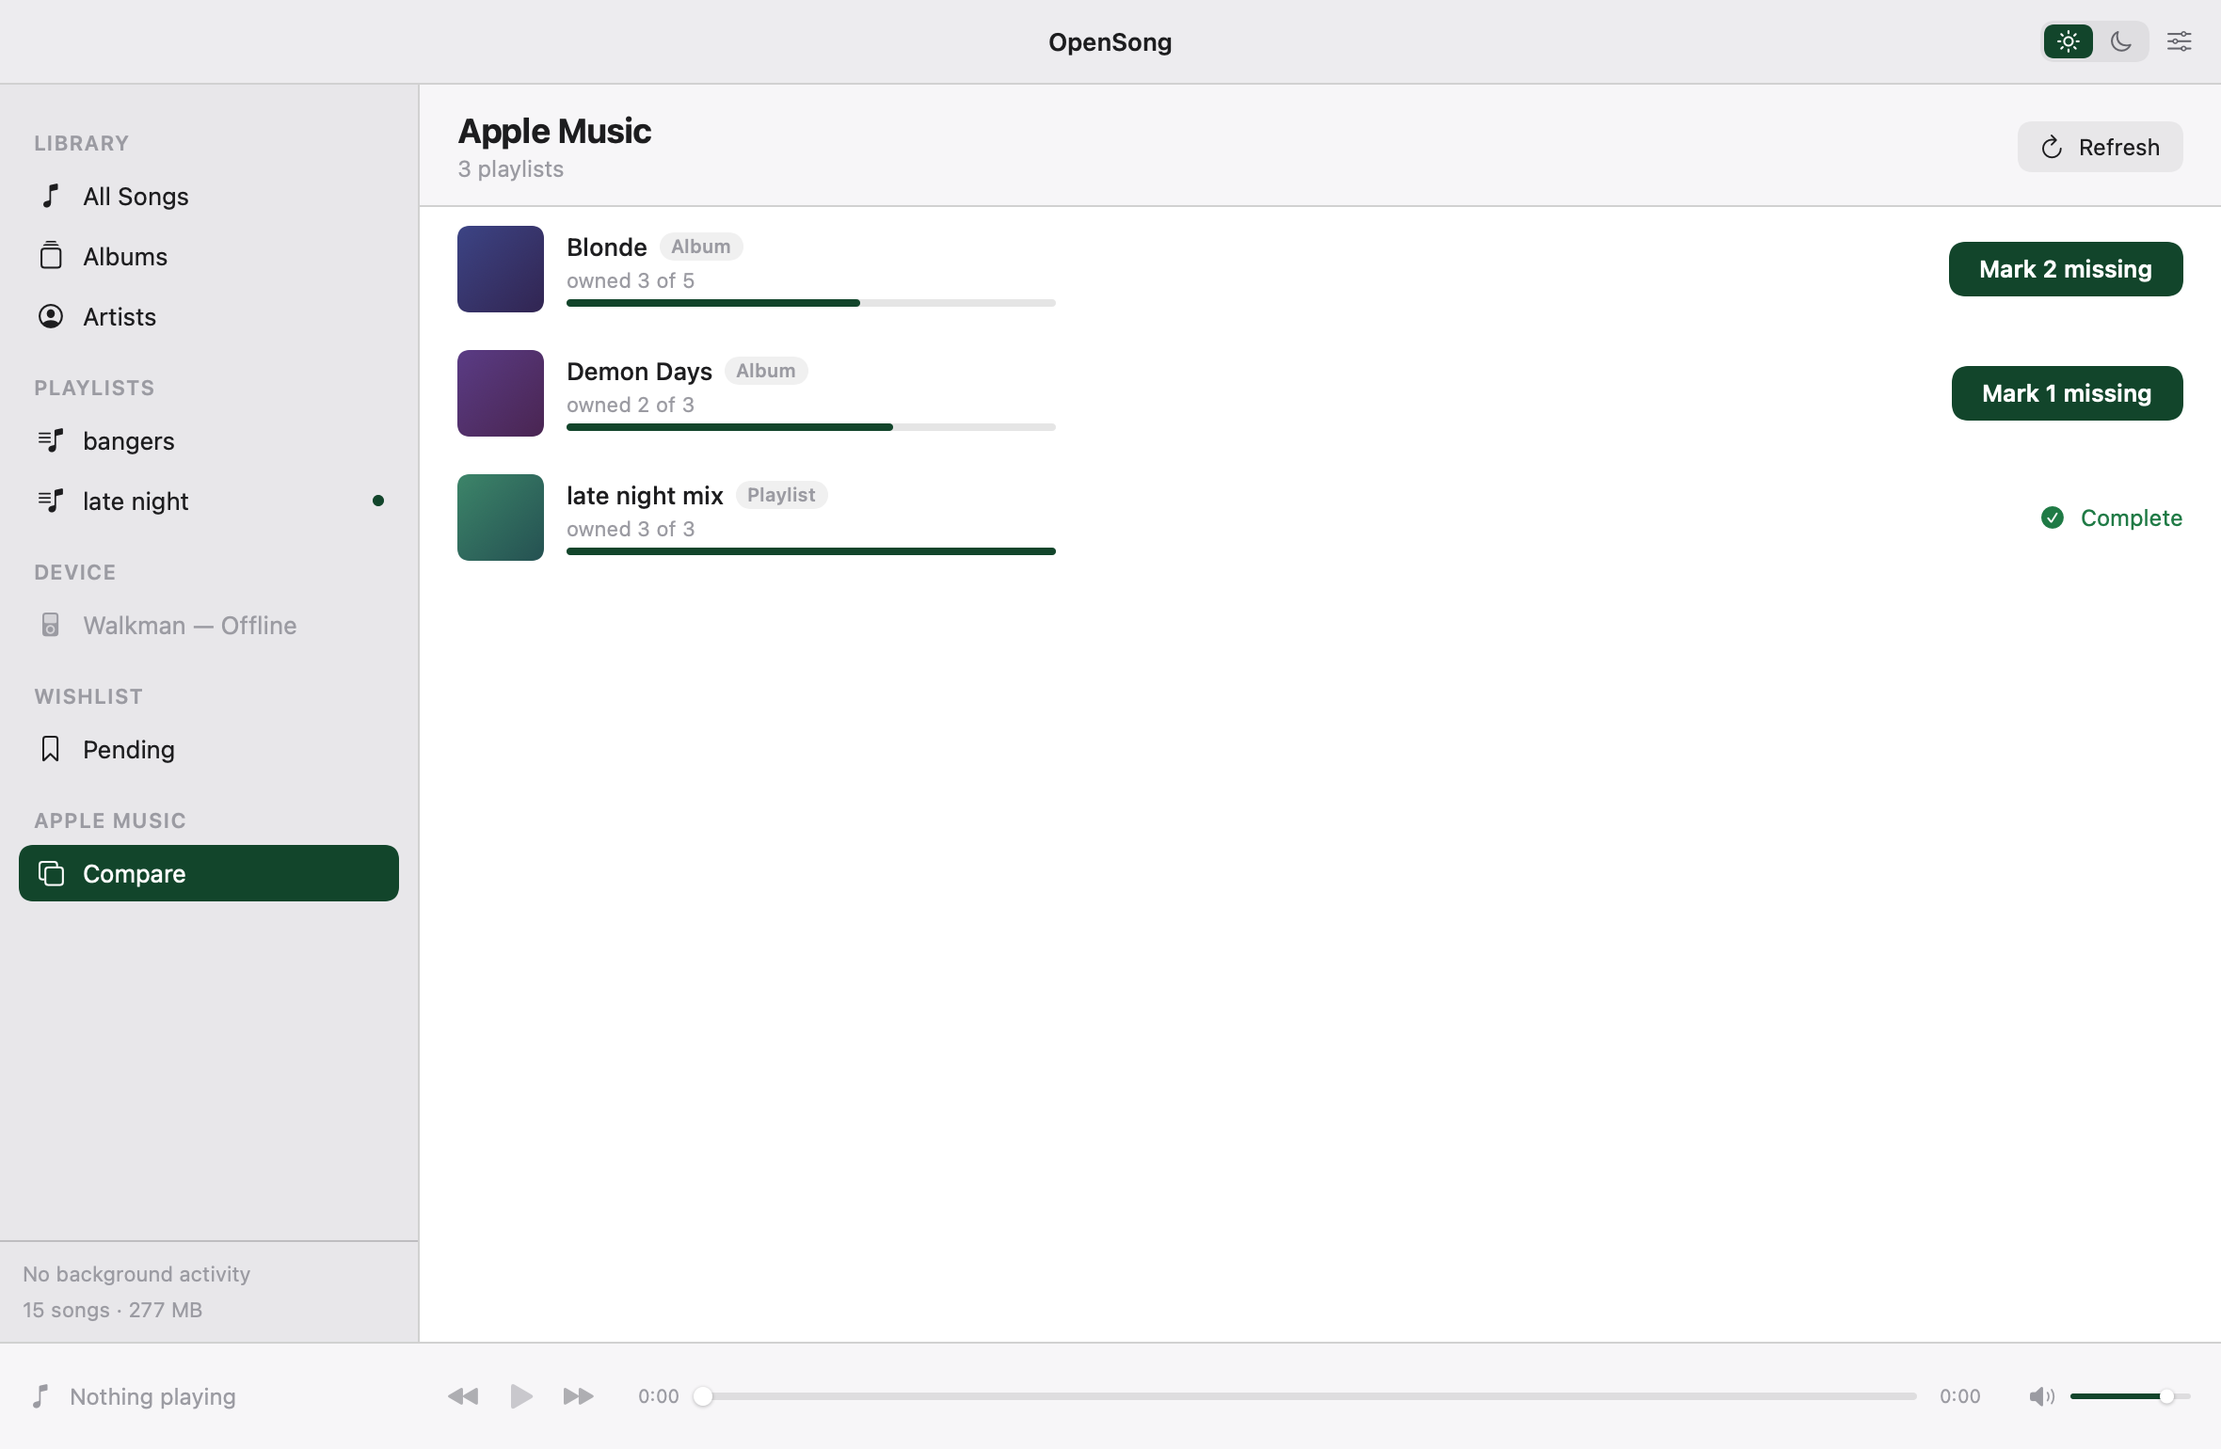
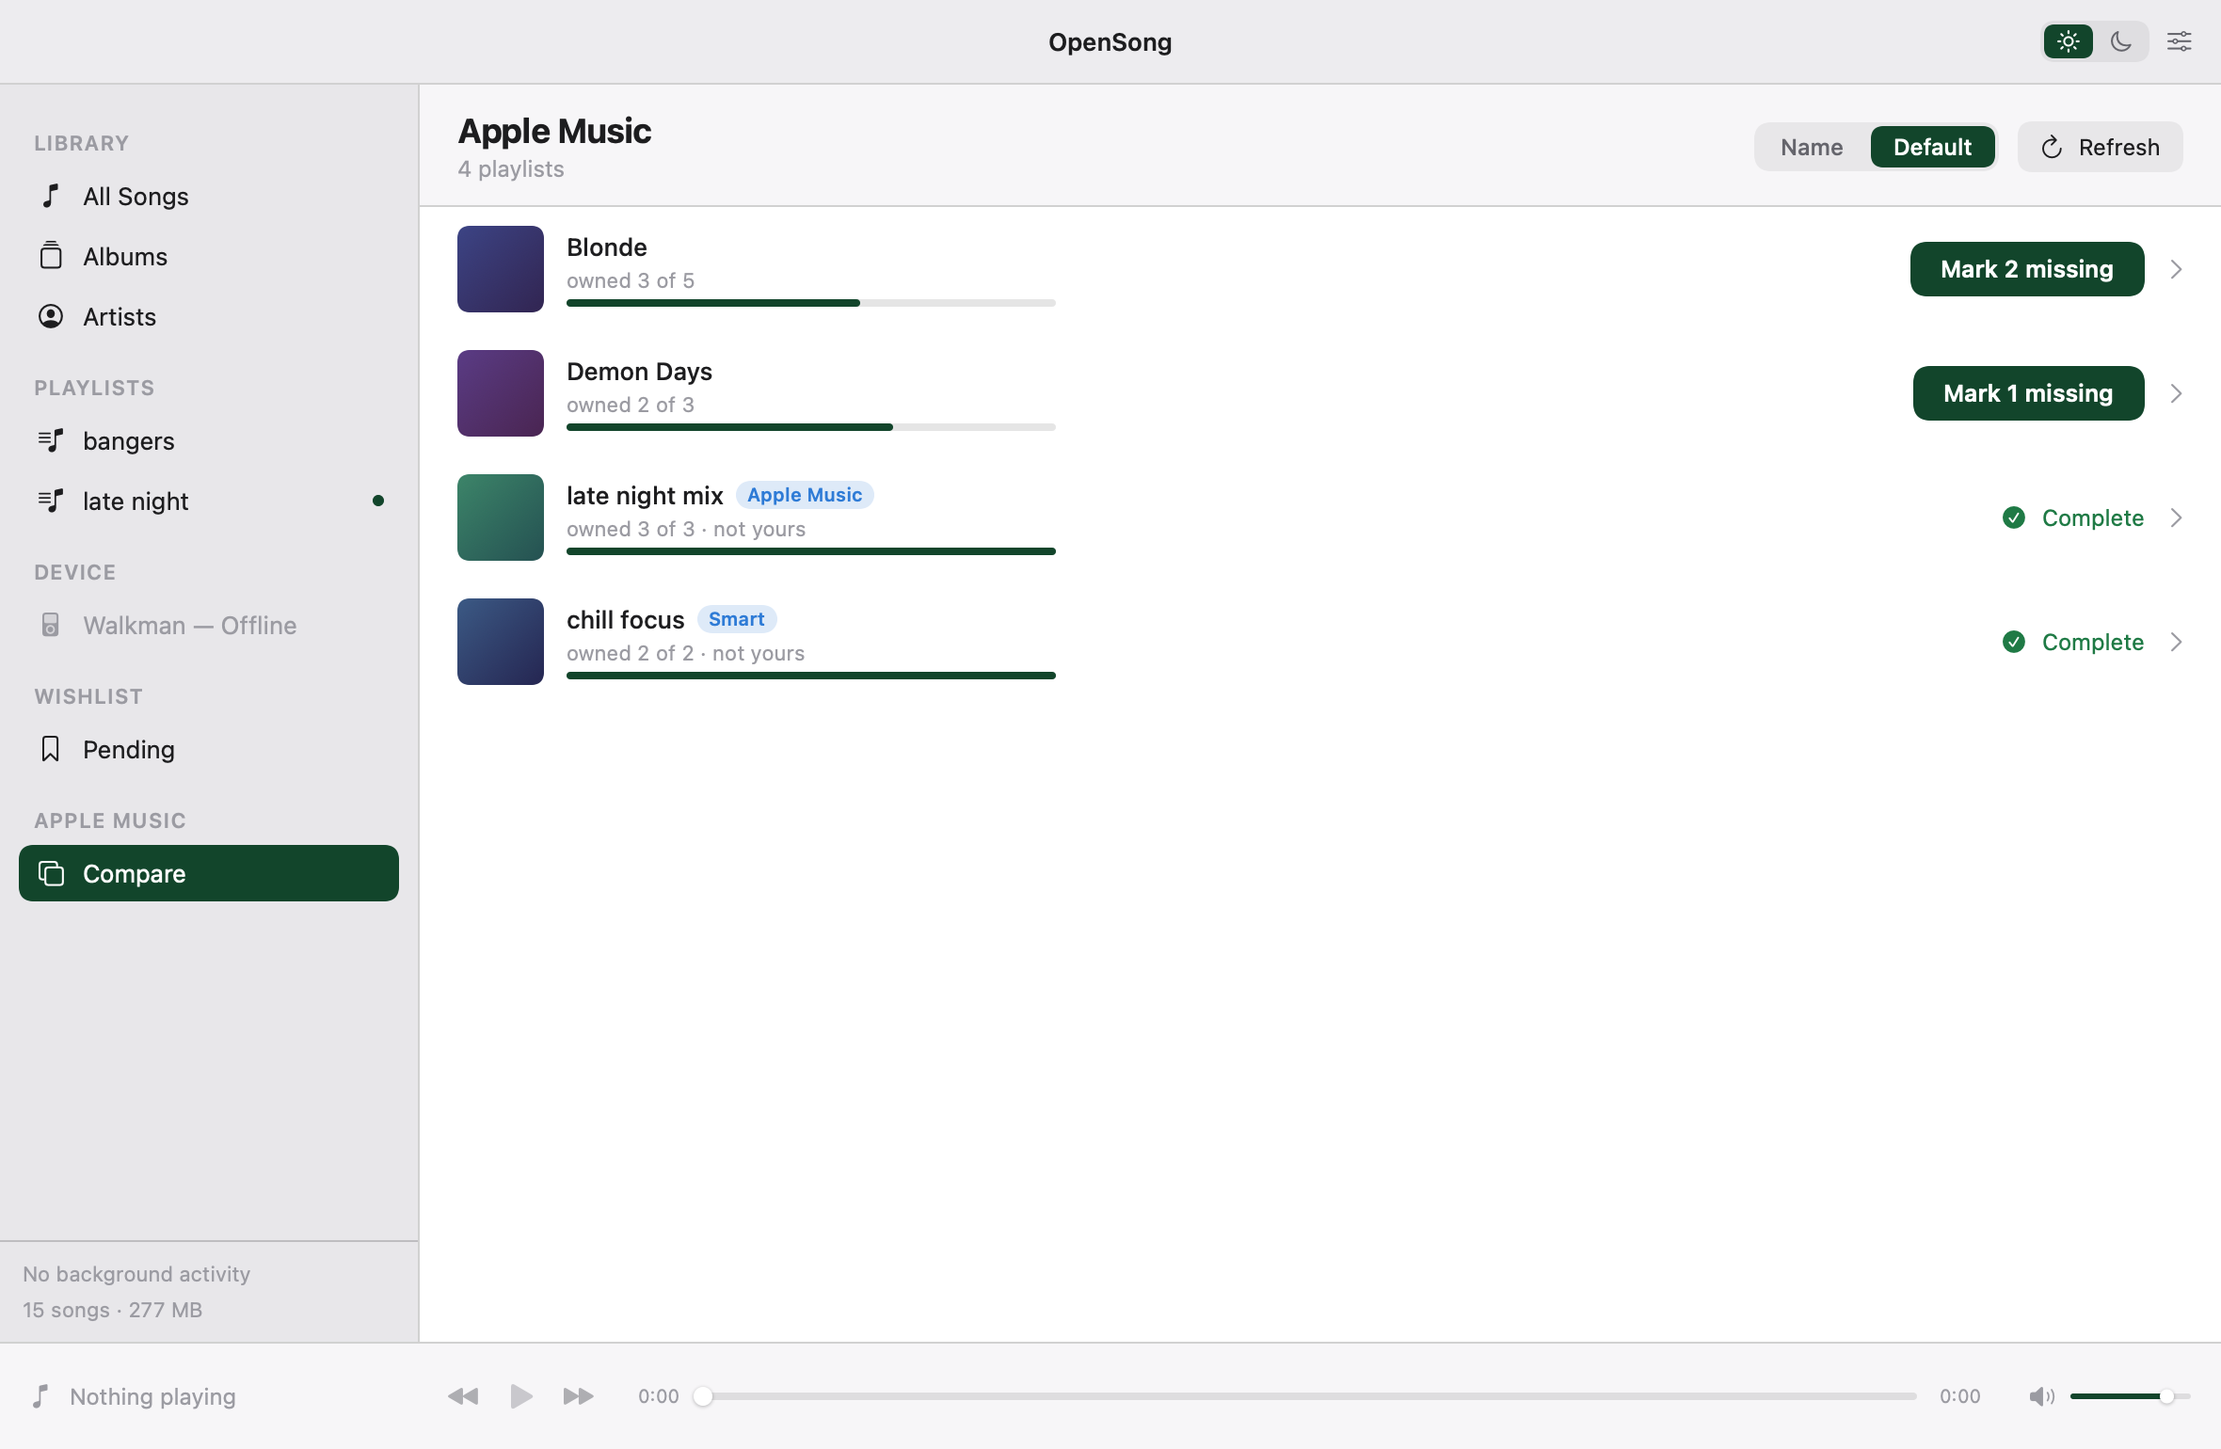
feat(applemusic): sort (name/default), origin tags, clickable playlist detail w/ per-track add (v0.2.3)
- Sort control (Name / Default); capture smart + class from Music for a 'not yours' tag
  (Apple Music / Smart / Genius)
- Click a playlist -> AppleMusicDetailView: per-track Add (owned/pending/missing states) +
  Mark-all-missing; all add to Pending grouped under the playlist name

diff --git a/Sources/OpenSong/AppleMusicDetailView.swift b/Sources/OpenSong/AppleMusicDetailView.swift
@@ -1,0 +1,80 @@
+import SwiftUI
+import OpenSongCore
+
+struct AppleMusicDetailView: View {
+    @Environment(AppStore.self) private var store
+    @Environment(\.theme) private var theme
+
+    private var col: AppleMusicCollection? { store.amDetail }
+
+    var body: some View {
+        VStack(spacing: 0) {
+            if let col {
+                header(col)
+                Divider().overlay(theme.sep)
+                ScrollOrStack(alignment: .leading) {
+                    ForEach(Array(col.tracks.enumerated()), id: \.offset) { _, track in
+                        trackRow(track, group: col.name)
+                        Divider().overlay(theme.sep)
+                    }
+                }
+            } else {
+                Text("No playlist selected").foregroundStyle(theme.text3)
+            }
+        }
+    }
+
+    private func header(_ col: AppleMusicCollection) -> some View {
+        let own = store.ownership(col)
+        return HStack(spacing: 14) {
+            Button { store.activeView = .appleMusic } label: {
+                Image(systemName: "chevron.left").font(.system(size: 13))
+            }.buttonStyle(.plain).foregroundStyle(theme.text2)
+            AppleMusicArt(name: col.name, size: 60)
+            VStack(alignment: .leading, spacing: 3) {
+                HStack(spacing: 6) {
+                    Text(col.name).font(.system(size: 18, weight: .bold)).foregroundStyle(theme.text).lineLimit(1)
+                    if let tag = col.originTag {
+                        Text(tag).font(.system(size: 10, weight: .semibold))
+                            .padding(.horizontal, 6).padding(.vertical, 1)
+                            .background(Color(hex: 0x2e7bd6).opacity(0.16), in: Capsule())
+                            .foregroundStyle(Color(hex: 0x2e7bd6))
+                    }
+                }
+                Text("\(col.tracks.count) tracks · owned \(own.owned), \(own.missing.count) missing")
+                    .font(.system(size: 12)).foregroundStyle(theme.text3)
+            }
+            Spacer()
+            if !own.missing.isEmpty {
+                Button("Mark \(own.missing.count) missing") { store.markMissing(col) }.buttonStyle(AccentButton())
+            }
+        }
+        .padding(20).background(theme.header)
+    }
+
+    private func trackRow(_ track: AppleMusicTrack, group: String) -> some View {
+        let owned = store.isOwned(track)
+        let pending = store.isPending(track)
+        return HStack(spacing: 12) {
+            Circle()
+                .fill(owned ? theme.green : Color.clear)
+                .overlay(Circle().stroke(owned ? Color.clear : theme.text3, lineWidth: 1.2))
+                .frame(width: 9, height: 9)
+            VStack(alignment: .leading, spacing: 1) {
+                Text(track.name).font(.system(size: 13)).foregroundStyle(owned ? theme.text3 : theme.text).lineLimit(1)
+                Text(track.artist).font(.system(size: 11)).foregroundStyle(theme.text3).lineLimit(1)
+            }
+            Spacer()
+            if owned {
+                Label("In library", systemImage: "checkmark").font(.system(size: 11)).foregroundStyle(theme.green)
+            } else if pending {
+                Text("Pending").font(.system(size: 11, weight: .semibold))
+                    .padding(.horizontal, 8).padding(.vertical, 3)
+                    .background(theme.amber.opacity(0.15), in: Capsule()).foregroundStyle(theme.amber)
+            } else {
+                Button("Add") { store.addTrackToPending(track, group: group) }.buttonStyle(SoftButton())
+            }
+        }
+        .padding(.horizontal, 20).padding(.vertical, 7)
+    }
+}

diff --git a/Sources/OpenSong/AppleMusicView.swift b/Sources/OpenSong/AppleMusicView.swift
@@ -37,11 +37,18 @@ struct AppleMusicView: View {
     @Environment(\.theme) private var theme
 
     var body: some View {
-        VStack(spacing: 0) {
+        @Bindable var store = store
+        return VStack(spacing: 0) {
             ContentHeader(title: "Apple Music", subtitle: "\(store.appleMusic.count) playlists") {
-                Button { store.loadAppleMusic() } label: {
-                    Label(store.appleMusicLoading ? "Loading…" : "Refresh", systemImage: "arrow.clockwise")
-                }.buttonStyle(SoftButton()).disabled(store.appleMusicLoading)
+                HStack(spacing: 10) {
+                    if !store.appleMusic.isEmpty {
+                        SegmentedControl(options: AMSort.allCases.map { ($0.rawValue, $0) },
+                                         selection: $store.appleMusicSort)
+                    }
+                    Button { store.loadAppleMusic() } label: {
+                        Label(store.appleMusicLoading ? "Loading…" : "Refresh", systemImage: "arrow.clockwise")
+                    }.buttonStyle(SoftButton()).disabled(store.appleMusicLoading)
+                }
             }
             Divider().overlay(theme.sep)
             if store.appleMusicLoading {
@@ -50,7 +57,7 @@ struct AppleMusicView: View {
                 emptyState
             } else {
                 ScrollOrStack(alignment: .leading) {
-                    ForEach(store.appleMusic) { col in row(col) }
+                    ForEach(store.sortedAppleMusic) { col in row(col) }
                 }
             }
         }
@@ -92,11 +99,15 @@ struct AppleMusicView: View {
             VStack(alignment: .leading, spacing: 3) {
                 HStack(spacing: 6) {
                     Text(col.name).font(.system(size: 13, weight: .medium)).foregroundStyle(theme.text).lineLimit(1)
-                    Text(col.kind.rawValue.capitalized).font(.system(size: 10, weight: .semibold))
-                        .padding(.horizontal, 6).padding(.vertical, 1)
-                        .background(theme.chip, in: Capsule()).foregroundStyle(theme.text3)
+                    if let tag = col.originTag {
+                        Text(tag).font(.system(size: 10, weight: .semibold))
+                            .padding(.horizontal, 6).padding(.vertical, 1)
+                            .background(Color(hex: 0x2e7bd6).opacity(0.16), in: Capsule())
+                            .foregroundStyle(Color(hex: 0x2e7bd6))
+                    }
                 }
-                Text("owned \(own.owned) of \(own.total)").font(.system(size: 11)).foregroundStyle(theme.text3)
+                Text("owned \(own.owned) of \(own.total)\(col.isUserMade ? "" : " · not yours")")
+                    .font(.system(size: 11)).foregroundStyle(theme.text3)
                 ProgressBar(value: frac).frame(width: 260)
             }
             Spacer()
@@ -105,7 +116,10 @@ struct AppleMusicView: View {
             } else {
                 Button("Mark \(own.missing.count) missing") { store.markMissing(col) }.buttonStyle(AccentButton())
             }
+            Image(systemName: "chevron.right").font(.system(size: 12)).foregroundStyle(theme.text3)
         }
         .padding(.horizontal, 20).padding(.vertical, 10)
+        .contentShape(Rectangle())
+        .onTapGesture { store.openAMDetail(col) }
     }
 }

diff --git a/Sources/OpenSong/AppStore.swift b/Sources/OpenSong/AppStore.swift
@@ -53,6 +53,15 @@ final class AppStore {
     var appleMusic: [AppleMusicCollection] = []
     var appleMusicLoading = false
     var appleMusicError: String? = nil
+    var appleMusicSort: AMSort = .def
+    var amDetail: AppleMusicCollection? = nil
+
+    var sortedAppleMusic: [AppleMusicCollection] {
+        switch appleMusicSort {
+        case .name: return appleMusic.sorted { $0.name.localizedCaseInsensitiveCompare($1.name) == .orderedAscending }
+        case .def: return appleMusic   // Music's own order (roughly by recency / manual)
+        }
+    }
 
     struct SyncPreview {
         var willAdd: [SongRow]
@@ -556,6 +565,31 @@ final class AppStore {
         lastMessage = "Added \(missing.count) missing track(s)\(group.map { " from “\($0)”" } ?? "") to Pending."
     }
 
+    func openAMDetail(_ col: AppleMusicCollection) {
+        amDetail = col
+        activeView = .appleMusicDetail
+    }
+
+    /// Add a single Apple Music track to Pending (grouped under its playlist).
+    func addTrackToPending(_ track: AppleMusicTrack, group: String?) {
+        guard let store else { return }
+        var w = track.wishItem; w.playlistName = group
+        _ = try? store.addWish(w)
+        reload()
+        lastMessage = "Added “\(track.name)” to Pending."
+    }
+
+    /// Whether a given Apple Music track is already owned in the library.
+    func isOwned(_ track: AppleMusicTrack) -> Bool {
+        let lib = songs.map { AppleMusicCompare.LibraryTrack(title: $0.title, artist: $0.artist, album: $0.album, durationSec: $0.durationSec) }
+        return lib.contains { AppleMusicCompare.matches(track, $0) }
+    }
+
+    /// Whether a track is already in Pending.
+    func isPending(_ track: AppleMusicTrack) -> Bool {
+        wishItems.contains { $0.title == track.name && $0.artist == track.artist }
+    }
+
     /// After a grouped wish downloads, recreate the OpenSong playlist once all its tracks
     /// are present (and one doesn't already exist).
     private func maybeRecreatePlaylist(wishID: Int64) {
@@ -602,7 +636,10 @@ final class AppStore {
             AppleMusicCollection(name: "late night mix", kind: .playlist, tracks: [
                 tr("Ivy", "Frank Ocean", "Blonde", 249), tr("Aruarian Dance", "Nujabes", "Departure", 244),
                 tr("Peaceland", "Nujabes", "Modal Soul", 201),
-            ]),
+            ], cls: "subscription playlist"),
+            AppleMusicCollection(name: "chill focus", kind: .playlist, tracks: [
+                tr("Avril 14th", "Aphex Twin", "Drukqs", 125), tr("Ivy", "Frank Ocean", "Blonde", 249),
+            ], smart: true, cls: "smart playlist"),
         ]
     }
 

diff --git a/Sources/OpenSongCore/AppleMusic.swift b/Sources/OpenSongCore/AppleMusic.swift
@@ -33,9 +33,23 @@ public struct AppleMusicCollection: Sendable, Equatable, Identifiable {
     public var name: String
     public var kind: AppleMusicKind
     public var tracks: [AppleMusicTrack]
-    public init(name: String, kind: AppleMusicKind, tracks: [AppleMusicTrack]) {
-        self.name = name; self.kind = kind; self.tracks = tracks
+    public var smart: Bool
+    public var cls: String        // Music's class display string, e.g. "user playlist", "subscription playlist"
+    public init(name: String, kind: AppleMusicKind, tracks: [AppleMusicTrack],
+                smart: Bool = false, cls: String = "") {
+        self.name = name; self.kind = kind; self.tracks = tracks; self.smart = smart; self.cls = cls
     }
+
+    /// A short tag when the playlist wasn't hand-made by the user (smart, or added from the
+    /// Apple Music catalog / another user). nil for a normal user playlist.
+    public var originTag: String? {
+        let c = cls.lowercased()
+        if c.contains("subscription") || c.contains("radio") { return "Apple Music" }
+        if smart { return "Smart" }
+        if c.contains("genius") { return "Genius" }
+        return nil
+    }
+    public var isUserMade: Bool { originTag == nil }
 }
 
 /// Parses the JSON our JXA script emits from Music.app.
@@ -56,7 +70,9 @@ public enum AppleMusicParser {
                     location: (t["location"] as? String).flatMap { $0.isEmpty ? nil : $0 },
                     isCloud: (t["cloud"] as? Bool) ?? false)
             }
-            return AppleMusicCollection(name: name, kind: kind, tracks: tracks)
+            return AppleMusicCollection(name: name, kind: kind, tracks: tracks,
+                                        smart: (col["smart"] as? Bool) ?? false,
+                                        cls: (col["cls"] as? String) ?? "")
         }
     }
 }

diff --git a/Sources/OpenSongCore/AppleMusicBridge.swift b/Sources/OpenSongCore/AppleMusicBridge.swift
@@ -26,6 +26,9 @@ public struct AppleMusicBridge: Sendable {
           for (let i = 0; i < n; i++) {
             const pl = pls[i];
             let name; try { name = pl.name(); } catch (e) { continue; }
+            let smart = false, cls = '';
+            try { smart = pl.smart(); } catch (e) {}
+            try { cls = Automation.getDisplayString(pl.class()); } catch (e) { try { cls = String(pl.class()); } catch (e2) {} }
             let names = [], artists = [], albums = [], durs = [], locs = [], clouds = [];
             try { names = pl.tracks.name(); } catch (e) {}
             try { artists = pl.tracks.artist(); } catch (e) {}
@@ -45,7 +48,7 @@ public struct AppleMusicBridge: Sendable {
                 cloud: (cs === 'subscription' || cs === 'matched')
               });
             }
-            out.push({name: name, kind: 'playlist', tracks: tracks});
+            out.push({name: name, kind: 'playlist', smart: smart, cls: cls, tracks: tracks});
           }
           return JSON.stringify({collections: out});
         }

diff --git a/Sources/OpenSong/UIModels.swift b/Sources/OpenSong/UIModels.swift
@@ -46,10 +46,12 @@ struct PlaylistRow: Identifiable, Hashable {
 }
 
 enum ActiveView: Hashable {
-    case allSongs, albums, artists, device, wishlist, appleMusic
+    case allSongs, albums, artists, device, wishlist, appleMusic, appleMusicDetail
     case playlist(Int64)
     case match(Int64)
 }
+
+enum AMSort: String, CaseIterable { case name = "Name", def = "Default" }
 
 struct DeviceState {
     var connected: Bool = false

diff --git a/Sources/OpenSong/RootView.swift b/Sources/OpenSong/RootView.swift
@@ -78,6 +78,7 @@ struct RootView: View {
         case .device: DeviceView()
         case .wishlist: WishlistView()
         case .appleMusic: AppleMusicView()
+        case .appleMusicDetail: AppleMusicDetailView()
         case .playlist(let id): PlaylistDetailView(playlistID: id)
         case .match(let id): MatchReviewView(wishID: id)
         }

diff --git a/docs/FEEDBACK.md b/docs/FEEDBACK.md
@@ -4,6 +4,13 @@ Running log of feedback from real use, with status. Newest first.
 
 ## 2026-07-22 session
 
+- [x] **Apple Music: sort + tags + drill-in.** Sort playlists by Name or Default (Music's
+  order — Apple's API doesn't expose a real creation date). Origin tag ("Apple Music"/"Smart"/
+  "Genius" + "not yours") for playlists not hand-made by the user. Click a playlist to open a
+  detail view: add individual missing tracks OR "Mark all missing" — all go to Pending, grouped
+  under the playlist name (recreated once downloaded).
+
+
 - [x] **Title-bar dead space FIXED** (confirmed from user screenshot — traffic lights,
   title, toggles on one row). `.ignoresSafeArea()` at the outermost window-content level.
 - [x] **Apple Music load slow / "stuck"** — the JXA fetched each track field one-by-one
